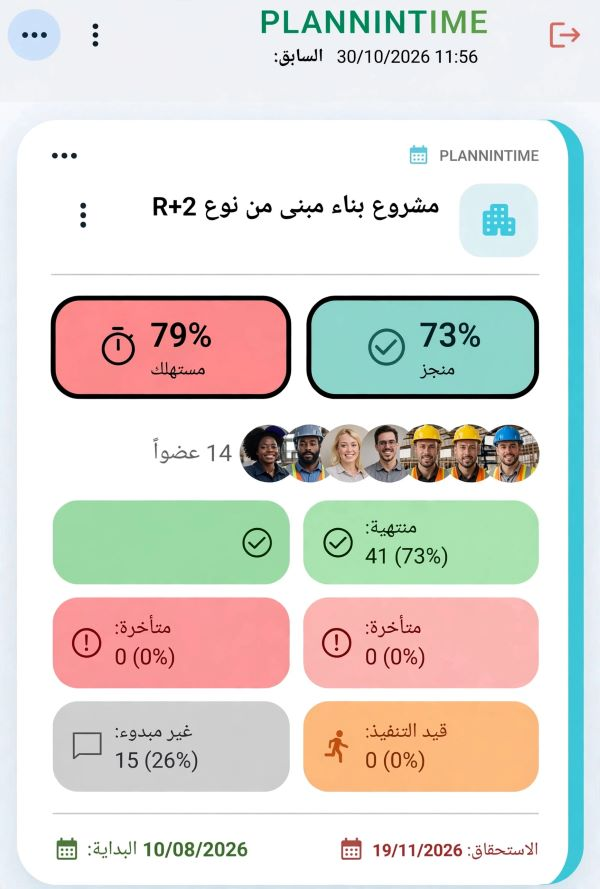
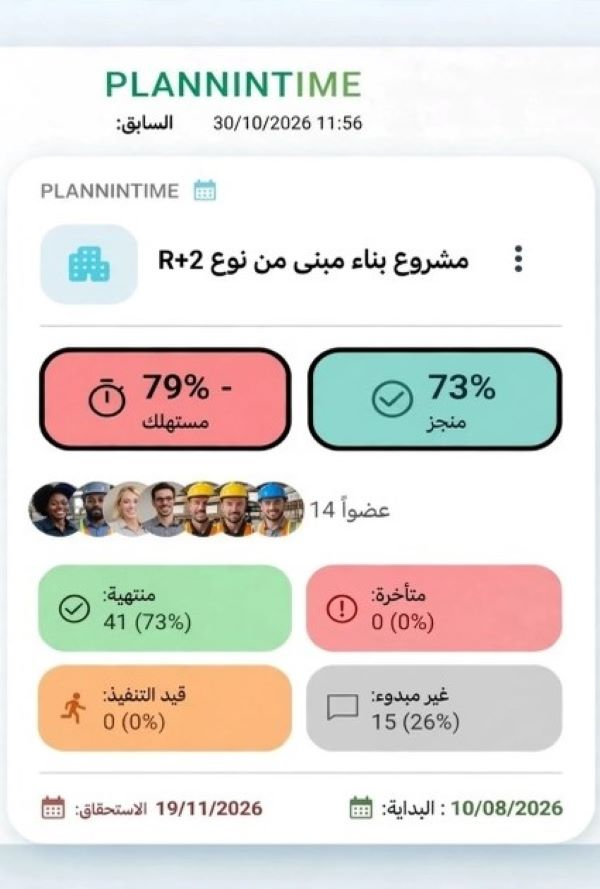
index.html

diff --git a/index.html b/index.html
@@ -26,14 +26,14 @@
 <!-- AJOUT 1 : Open Graph pour avoir une belle vignette quand on partage -->
 <meta property="og:title" content="PlannInTime - Free Construction Scheduling Software"/>
 <meta property="og:description" content="Free construction scheduling software to assign tasks, track deadlines and export A3 Gantt charts. Kanban, Timeline, Calendar with auto-notifications D-3, D-1."/>
-<meta property="og:image" content="https://plannintime.com/images/og-app-fr-1200x630.jpg"/>
+<meta property="og:image" content="https://plannintime.com/images/og-app-1200x630.jpg"/>
 <meta property="og:image:width" content="1200">
 <meta property="og:image:height" content="630">
 <meta property="og:image:alt" content="PlannInTime Gantt chart and construction planning">
 <meta property="og:type" content="website">
 <meta name="twitter:title" content="PlannInTime - Free Construction Scheduling Software">
 <meta name="twitter:description" content="Free construction scheduling software to assign tasks, track deadlines and export A3 Gantt charts. Kanban, Timeline, Calendar with auto-notifications D-3, D-1.">
-<meta name="twitter:image" content="https://plannintime.com/images/og-app-fr-1200x630.jpg">
+<meta name="twitter:image" content="https://plannintime.com/images/og-app-1200x630.jpg">
 
 <!-- AJOUT 2 : Le Schema qui fait exploser ton CTR sur Google -->
 <script type="application/ld+json">
@@ -43,7 +43,7 @@
   "name":"PlannInTime",
   "description":"Free construction scheduling software to assign tasks, track deadlines and export A3 Gantt charts. Kanban, Timeline, Calendar with auto-notifications D-3, D-1.",
   "url":"https://plannintime.com/",
-  "image":"https://plannintime.com/images/og-app-fr-1200x630.jpg",
+  "image":"https://plannintime.com/images/og-app-1200x630.jpg",
   "applicationCategory":"BusinessApplication",
   "operatingSystem":"Web",
   "inLanguage":"en",
